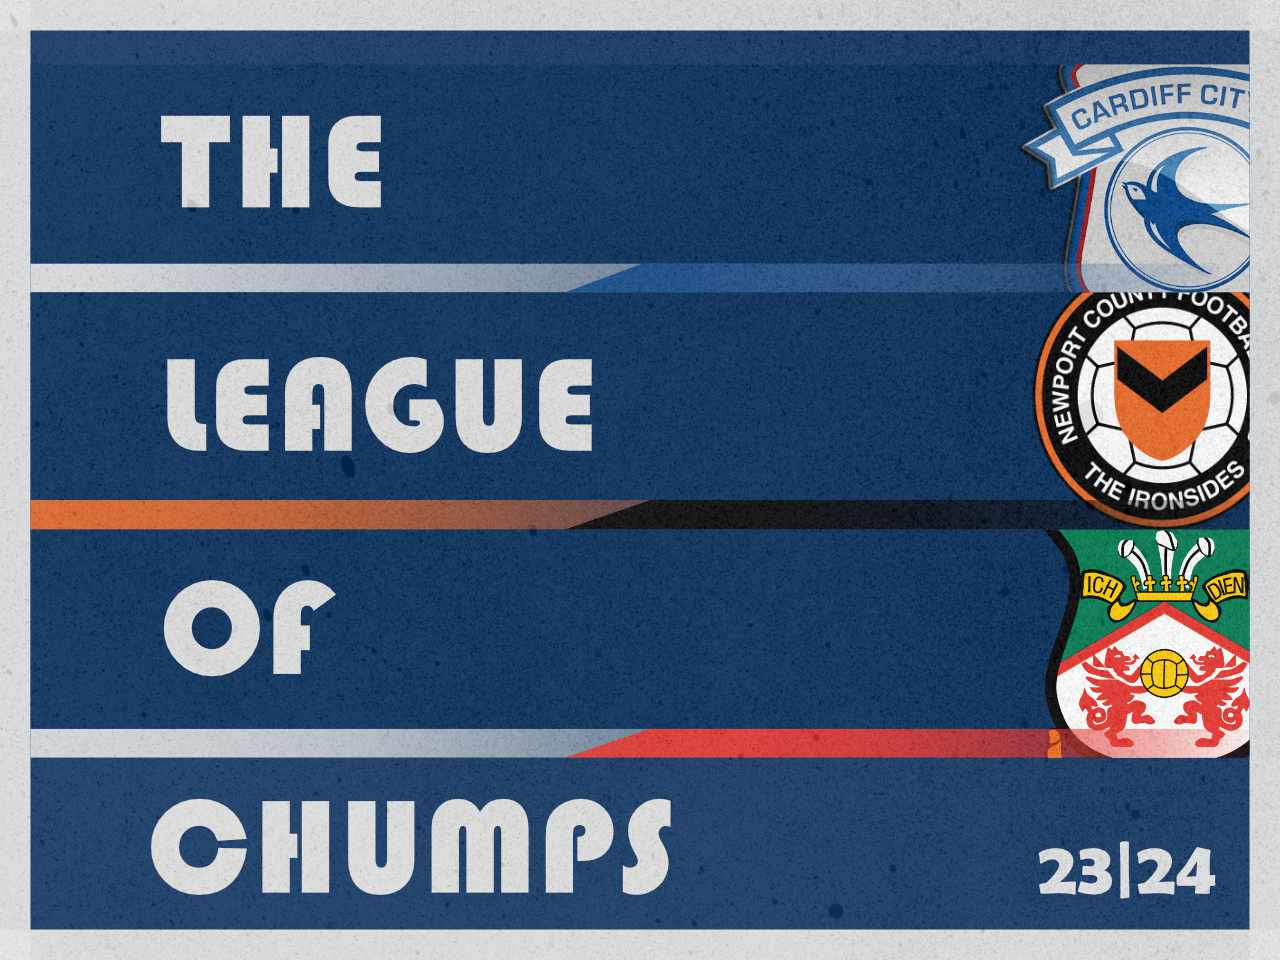
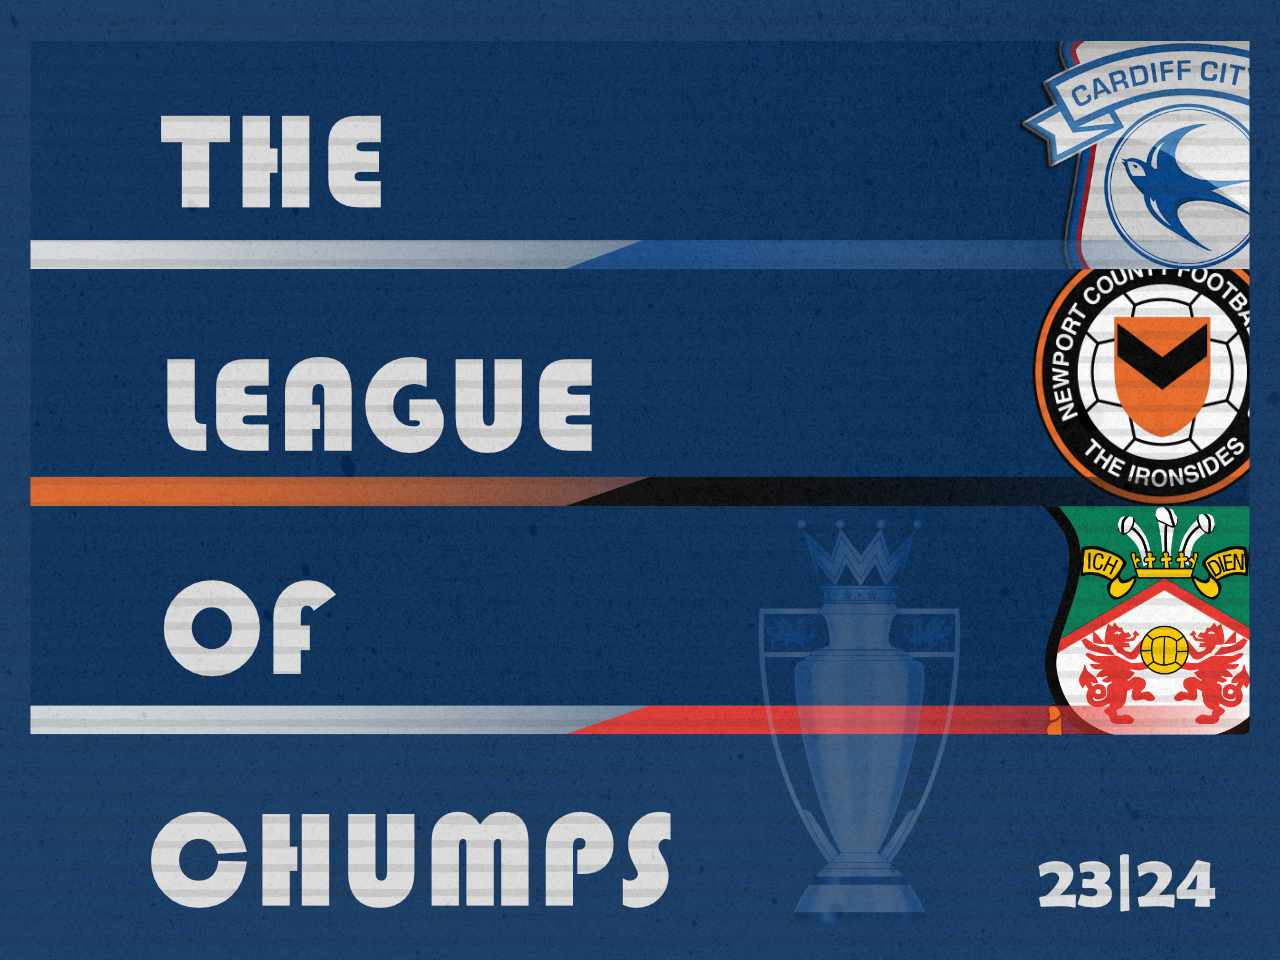
updates

diff --git a/index.html b/index.html
@@ -14,7 +14,7 @@
 
 	<header>
 		<div class="container">
-			<img src="images/cominsoon.jpg" width="100%" height="100%" alt="trophy image">
+			<img src="images/season2324.jpg" width="100%" height="100%" alt="trophy image">
 			<div class="mainTitle">
 		</div>
 		</header>
